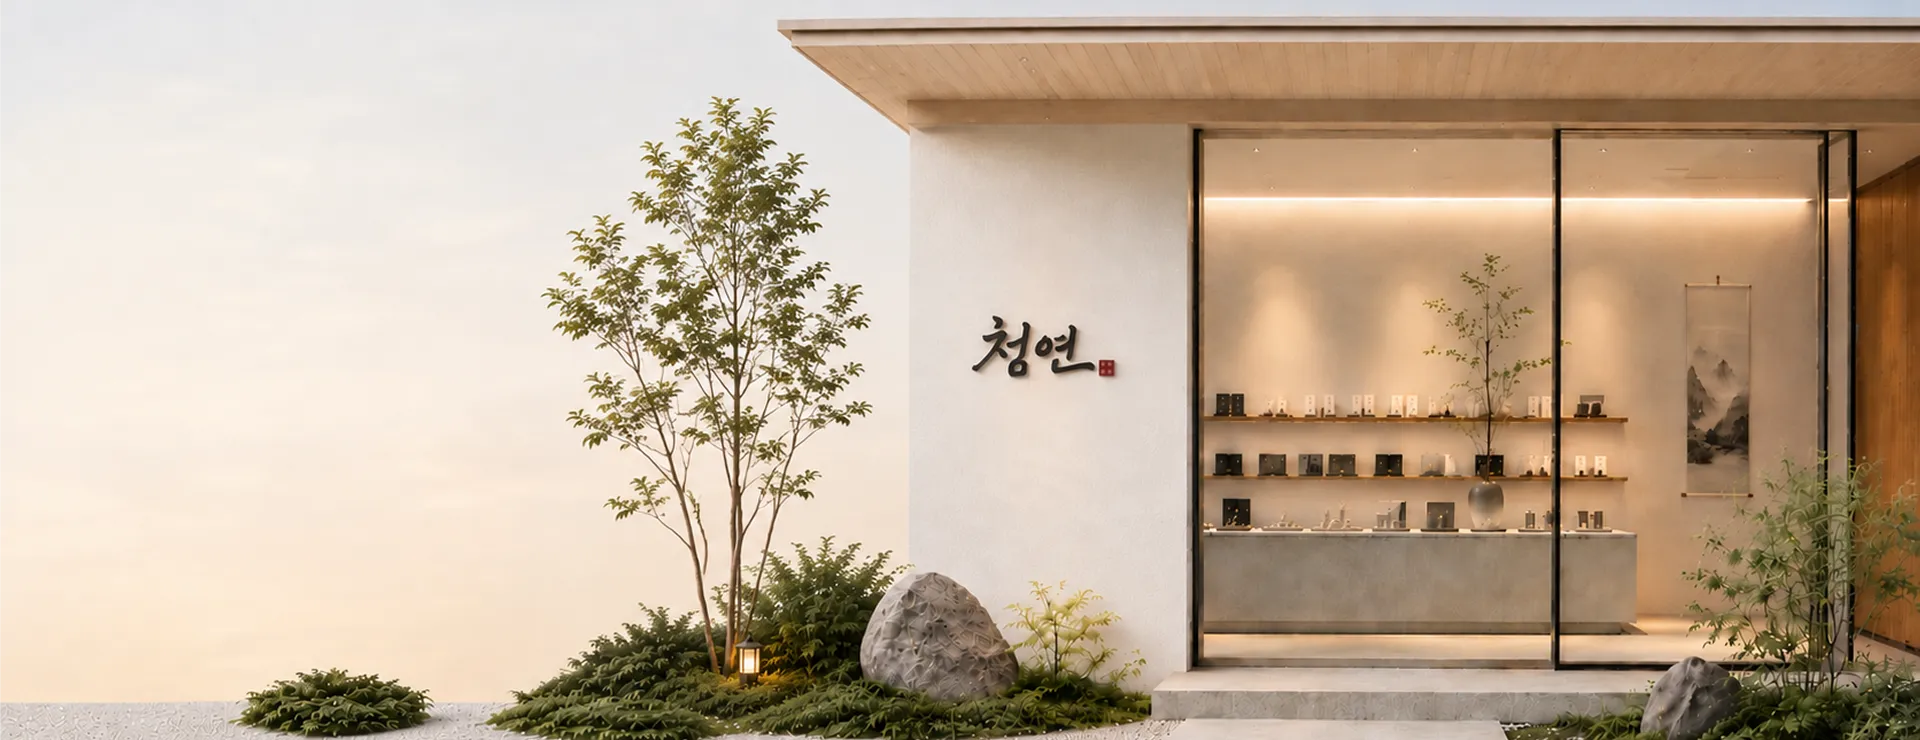
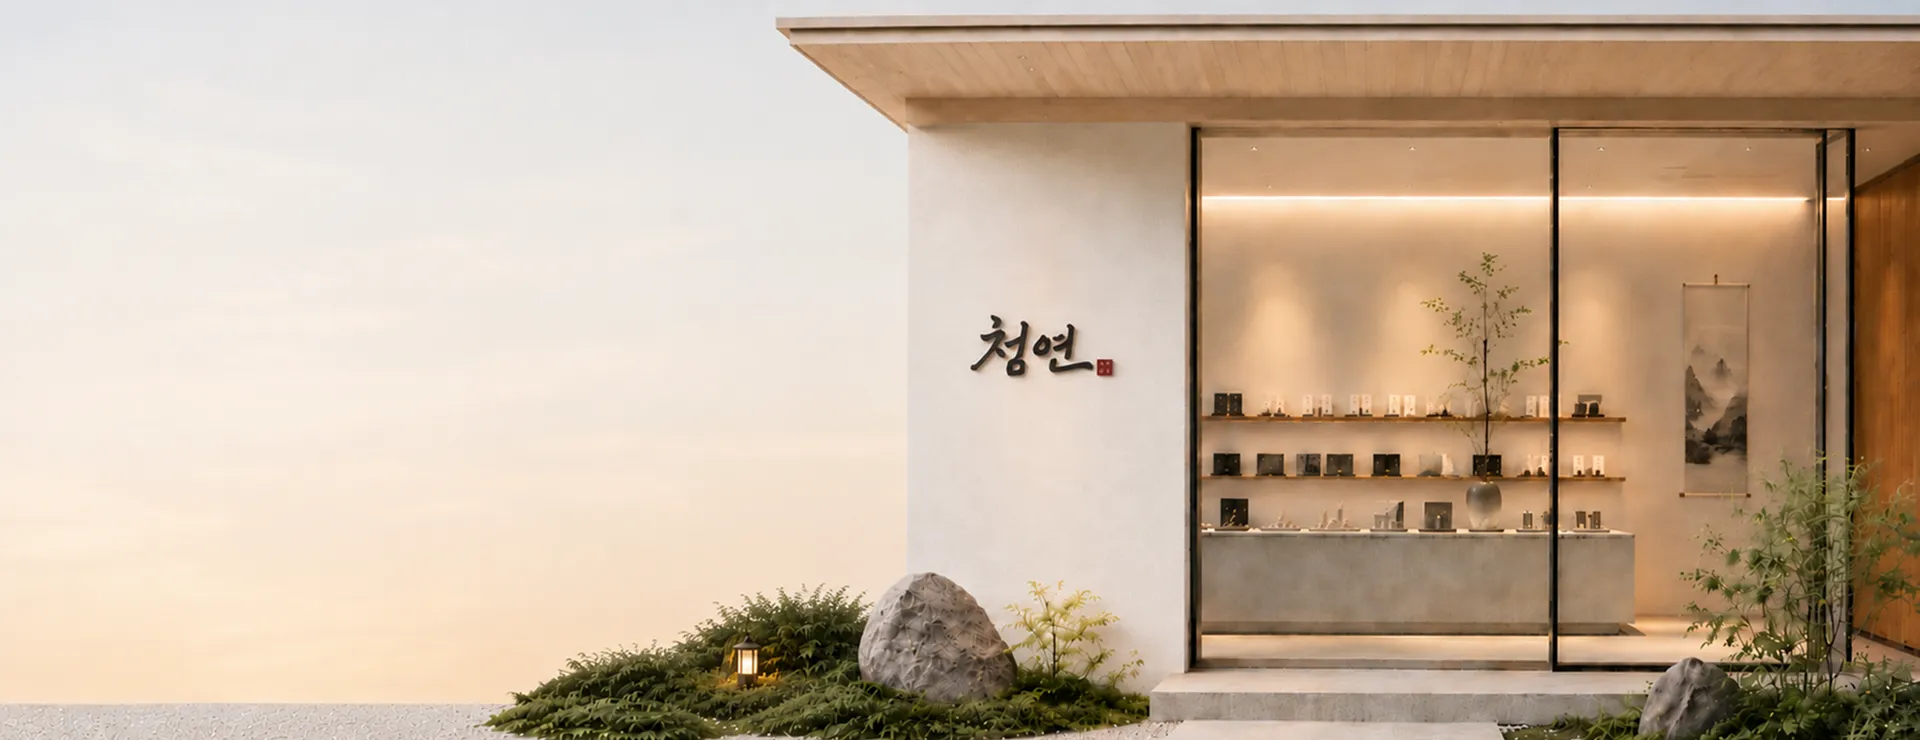
힘드러러럴

diff --git a/src/pages/MainPage.tsx b/src/pages/MainPage.tsx
@@ -518,9 +518,11 @@ function useKvViewport() {
 }
 
 export default function MainPage() {
+  const skipIntroAtMount =
+    typeof window !== "undefined" && getKvViewport(window.innerWidth) === "mobile";
   const [hasSeenIntroAtMount] = useState(() => hasMainIntroBeenSeen());
-  const [isIntroEnded, setIsIntroEnded] = useState(hasSeenIntroAtMount);
-  const [isScrollReleased, setIsScrollReleased] = useState(hasSeenIntroAtMount);
+  const [isIntroEnded, setIsIntroEnded] = useState(hasSeenIntroAtMount || skipIntroAtMount);
+  const [isScrollReleased, setIsScrollReleased] = useState(hasSeenIntroAtMount || skipIntroAtMount);
   const [activeSlideIndex, setActiveSlideIndex] = useState<number>(0);
   const [sec1ProgressCycle, setSec1ProgressCycle] = useState<number>(0);
   const [activeSeasons, setActiveSeasons] = useState<Record<SeasonKey, boolean>>(initialActiveSeasons);
@@ -595,6 +597,15 @@ export default function MainPage() {
       markMainIntroAsSeen();
     }
   }, [hasSeenIntroAtMount]);
+
+  useEffect(() => {
+    if (kvViewport !== "mobile" || isIntroEnded) {
+      return;
+    }
+
+    setIsIntroEnded(true);
+    setIsScrollReleased(true);
+  }, [kvViewport, isIntroEnded]);
 
   const setSeasonImageRef = (season: SeasonKey) => (node: HTMLDivElement | null) => {
     seasonImageRefs.current[season] = node;
@@ -1539,11 +1550,12 @@ export default function MainPage() {
     </div>
   );
 
-  const isIntroPlaying = !hasSeenIntroAtMount && !isIntroEnded;
+  const showMainIntro = kvViewport !== "mobile" && !hasSeenIntroAtMount;
+  const isIntroPlaying = showMainIntro && !isIntroEnded;
 
   return (
     <main className={["main-page", isIntroPlaying && "main-page--intro-playing"].filter(Boolean).join(" ")}>
-      {!hasSeenIntroAtMount && (
+      {showMainIntro && (
         <div
           className={["main-intro", isIntroEnded && "main-intro--hidden"].filter(Boolean).join(" ")}
         >